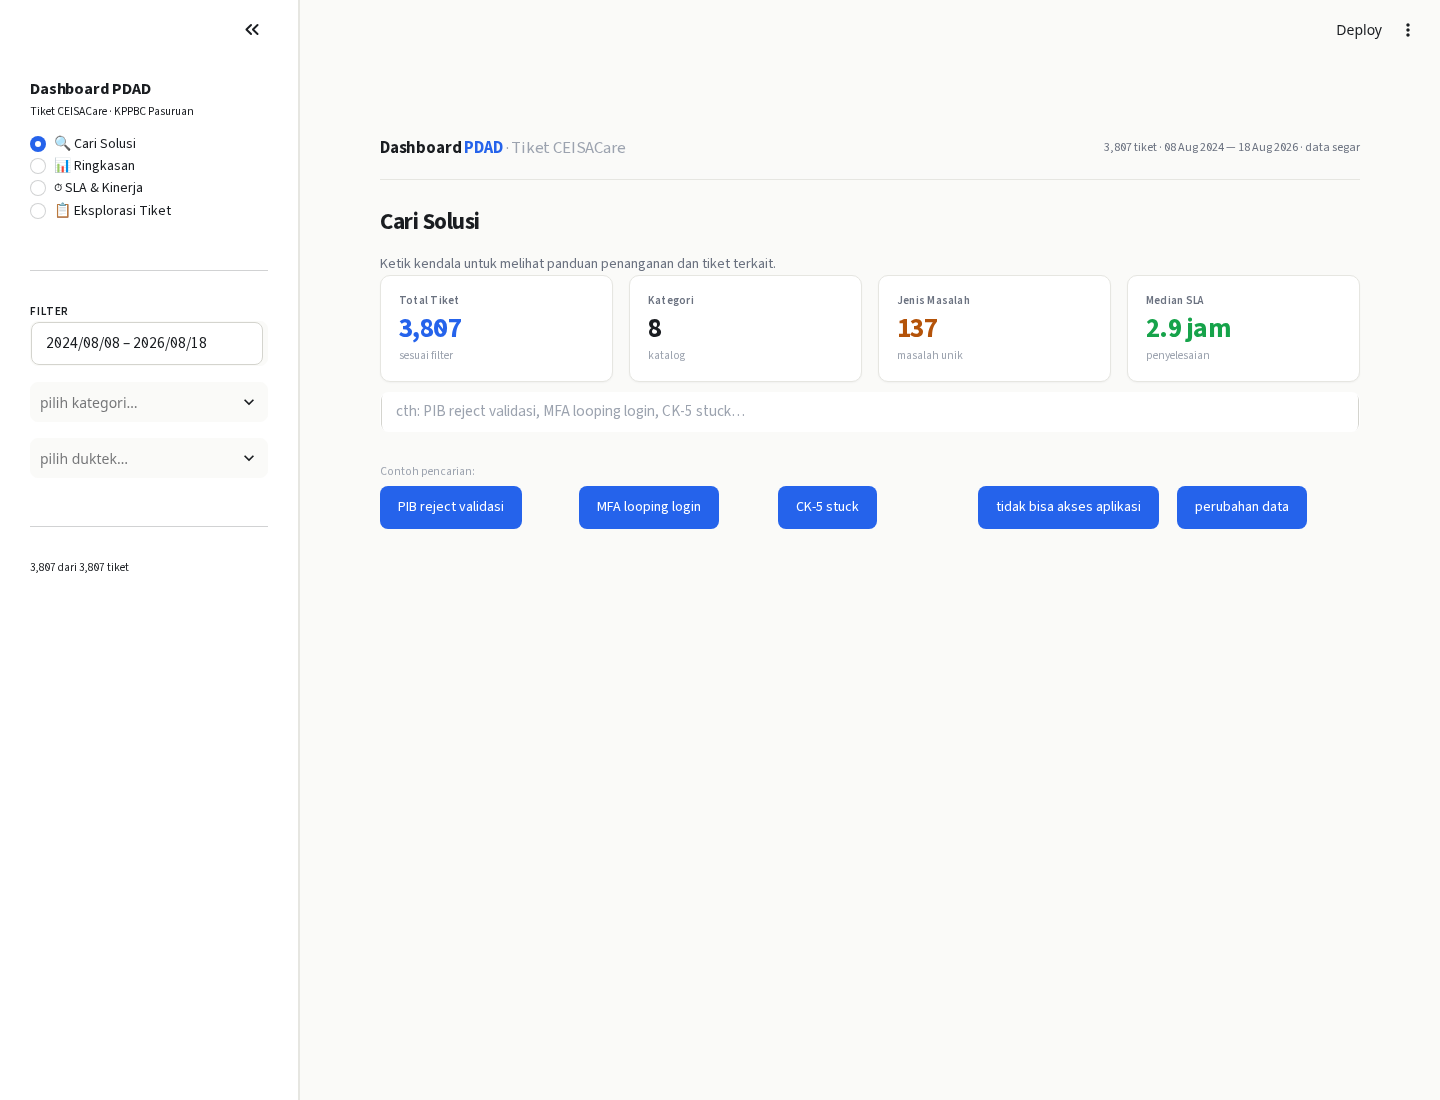
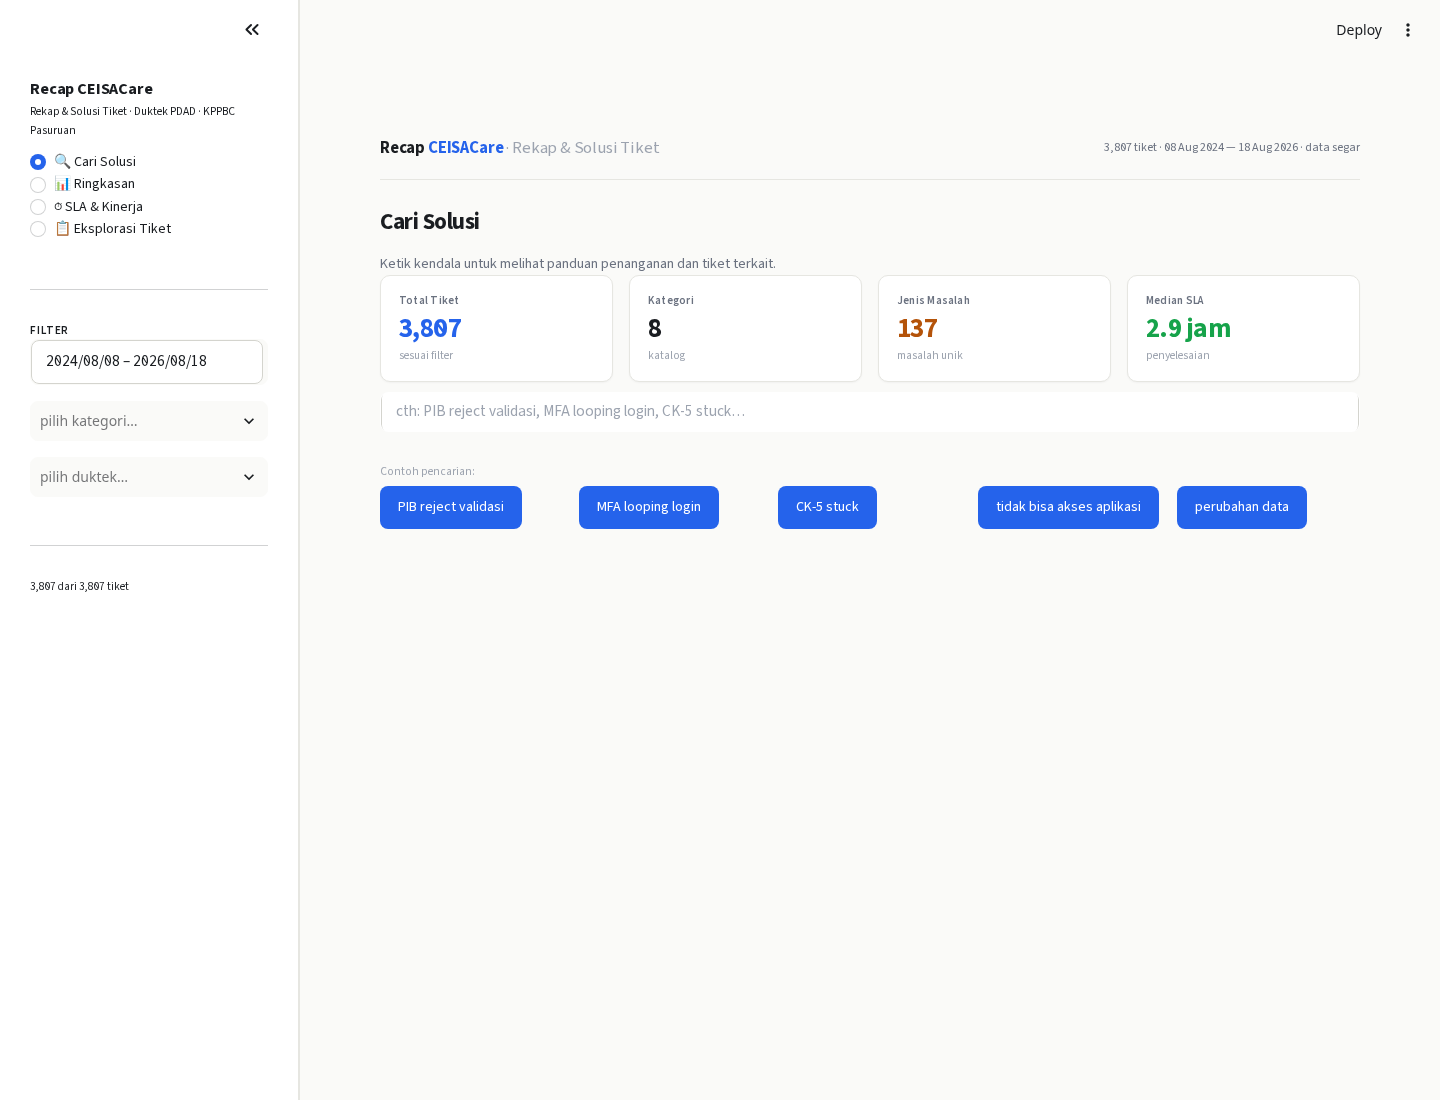
nama: Recap CEISACare — Rekap & Solusi Tiket (user-picked)
- Header/sidebar/title: Recap CEISACare · Rekap & Solusi Tiket
- README, PRODUCT.md (brand commitment), DESIGN.md updated

diff --git a/app.py b/app.py
@@ -1,6 +1,6 @@
 #!/usr/bin/env python3
-"""Dashboard PDAD — SIMPLE CLEAN.
-KPPBC Tipe Madya Pabean A Pasuruan · Analitik tiket CEISACare + cari solusi.
+"""Recap CEISACare — Rekap & Solusi Tiket CEISACare.
+KPPBC Tipe Madya Pabean A Pasuruan · Duktek PDAD.
 World: clean minimal work dashboard (canon played straight, user-requested simple).
 Data: data/tickets_clean.json + data/synth_results.json
 """
@@ -16,7 +16,7 @@ import streamlit as st
 # KONFIGURASI + KONTRAK ARAH (Simple Clean — user-requested)
 # ────────────────────────────────────────────────────────────────
 st.set_page_config(
-    page_title="Dashboard PDAD",
+    page_title="Recap CEISACare",
     page_icon="📊",
     layout="wide",
     initial_sidebar_state="expanded",
@@ -244,7 +244,7 @@ def header_bar():
     st.markdown(
         f"""
         <div class="sc-header">
-          <div class="brand">Dashboard <span class="dot">PDAD</span> <span style="color:#9CA3AF;font-weight:400;">· Tiket CEISACare</span></div>
+          <div class="brand">Recap <span class="dot">CEISACare</span> <span style="color:#9CA3AF;font-weight:400;">· Rekap & Solusi Tiket</span></div>
           <div class="readout">{n:,} tiket · {mn} — {mx} · data segar</div>
         </div>
         """,
@@ -278,8 +278,8 @@ def empty_state(text):
 # SIDEBAR — NAV + FILTER
 # ────────────────────────────────────────────────────────────────
 with st.sidebar:
-    st.markdown('<div style="font-weight:700;font-size:1.02rem;letter-spacing:-0.01em;">Dashboard PDAD</div>', unsafe_allow_html=True)
-    st.markdown('<div style="font-size:0.72rem;color:#9CA3AF;margin-bottom:12px;">Tiket CEISACare · KPPBC Pasuruan</div>', unsafe_allow_html=True)
+    st.markdown('<div style="font-weight:700;font-size:1.02rem;letter-spacing:-0.01em;">Recap CEISACare</div>', unsafe_allow_html=True)
+    st.markdown('<div style="font-size:0.72rem;color:#9CA3AF;margin-bottom:12px;">Rekap & Solusi Tiket · Duktek PDAD · KPPBC Pasuruan</div>', unsafe_allow_html=True)
     page = st.radio(
         "Navigasi",
         ["🔍 Cari Solusi", "📊 Ringkasan", "⏱ SLA & Kinerja", "📋 Eksplorasi Tiket"],

diff --git a/README.md b/README.md
@@ -1,12 +1,12 @@
-# Dashboard PDAD Interaktif
+# Recap CEISACare
 
-Dashboard analitik tiket CEISACare untuk KPPBC Tipe Madya Pabean A Pasuruan.
+Rekap & Solusi Tiket CEISACare — dashboard analitik untuk Duktek PDAD KPPBC Tipe Madya Pabean A Pasuruan.
 
 ## Fitur
 
+- **🔍 Cari Solusi** — cari kendala → panduan penanganan (dari sintesis 65 masalah) + tiket terkait
 - **📊 Ringkasan** — tren tiket per bulan, distribusi kategori, top masalah, top perusahaan
-- **⏱ SLA & Kinerja** — median waktu penyelesaian, distribusi bucket, kinerja per Duktek
-- **🔍 Search Solusi** — cari kendala → panduan penanganan (dari sintesis 65 masalah) + tiket terkait
+- **⏱ SLA & Kinerja** — median waktu penyelesaian, distribusi bucket, kinerja per Duktek
 - **📋 Eksplorasi Tiket** — tabel tiket dengan filter + download CSV
 
 ## Data

diff --git a/PRODUCT.md b/PRODUCT.md
@@ -36,7 +36,7 @@ Search engine solusi yang dilatih dari pengalaman nyata tiket internal — bukan
 
 ## Brand Commitments
 
-Belum ada identitas visual yang mengikat. Pengguna memberi kebebasan penuh untuk redesign ("surprised me") — tema baru boleh menyimpang dari tampilan Streamlit default.
+Nama produk: **Recap CEISACare** (keputusan user, 2026-08) — "Recap" dari rekapitulasi, "CEISACare" dari platform yang direkap. Tagline: "Rekap & Solusi Tiket". Identitas visual: Simple Clean (netral terang, satu aksen biru) — user meminta sederhana setelah mencoba Data Terminal dan Buku SOP.
 
 ## Evidence on Hand
 
